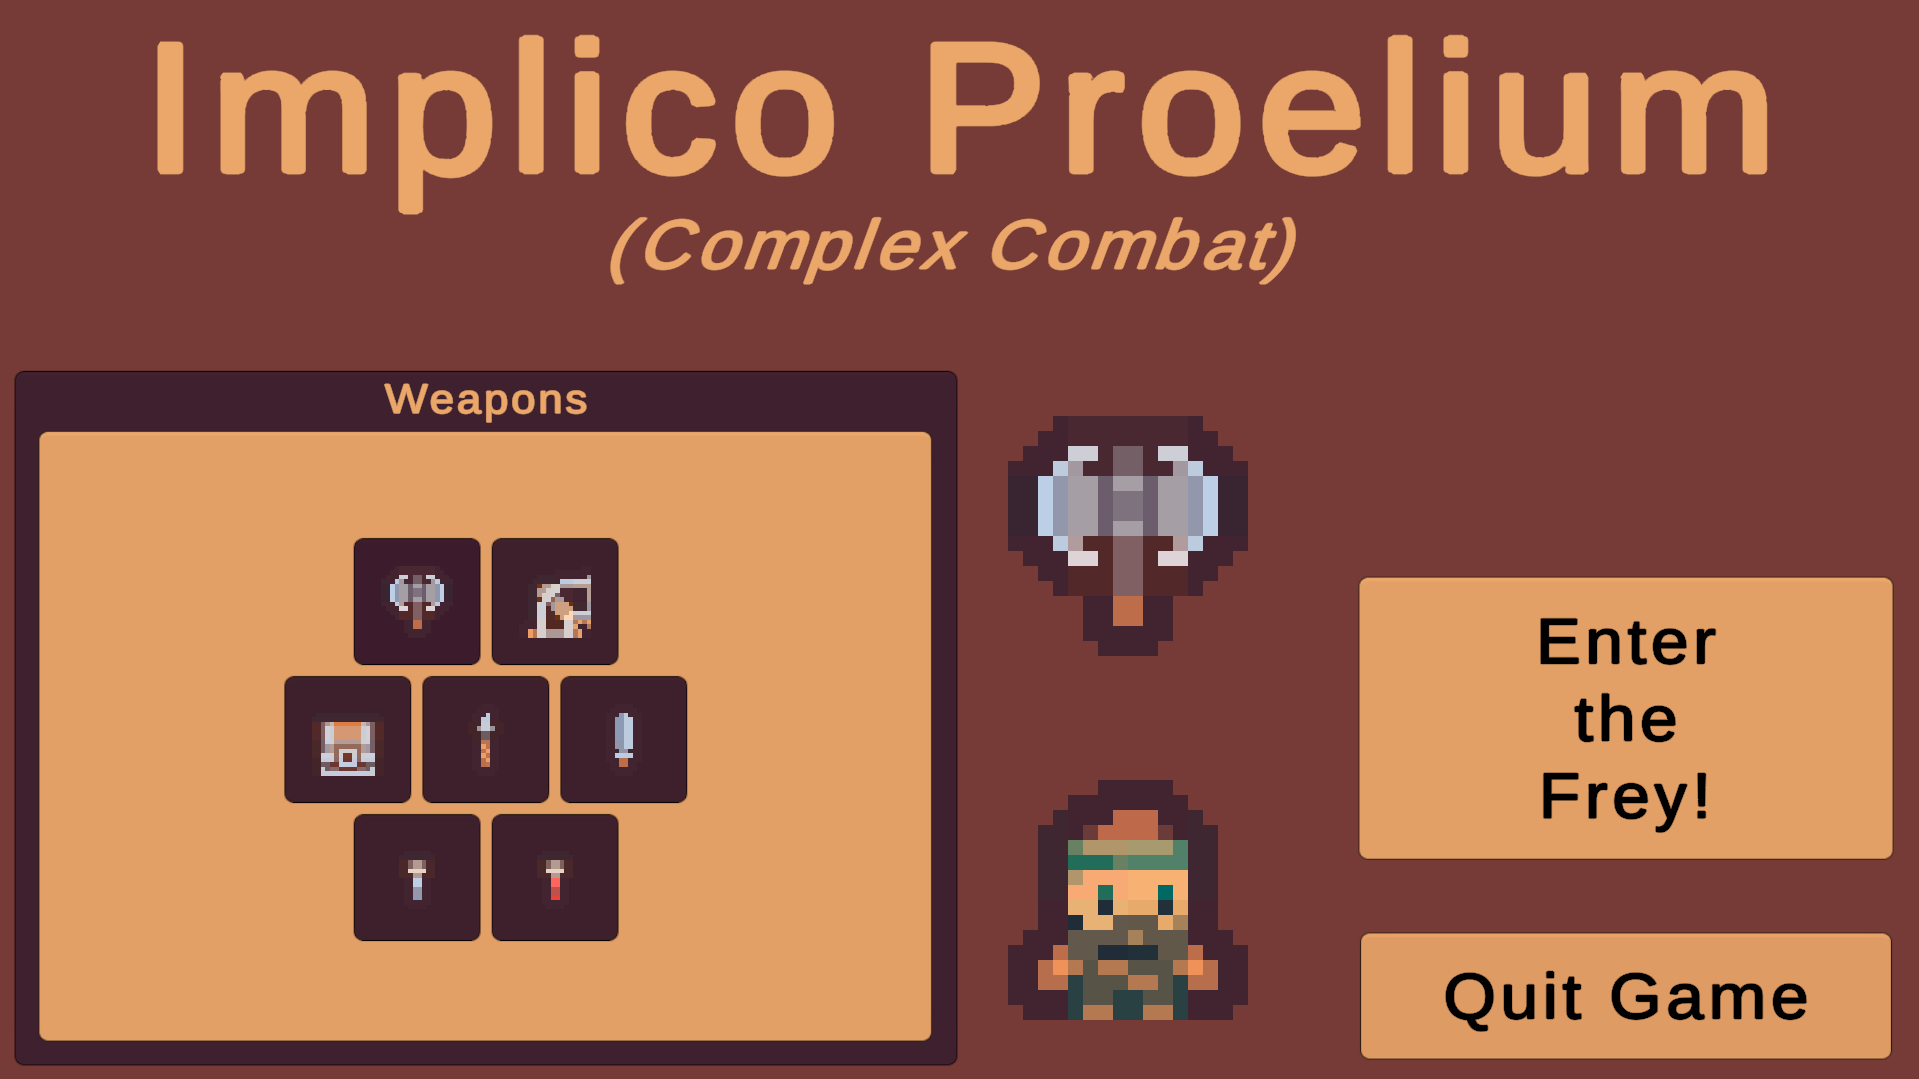
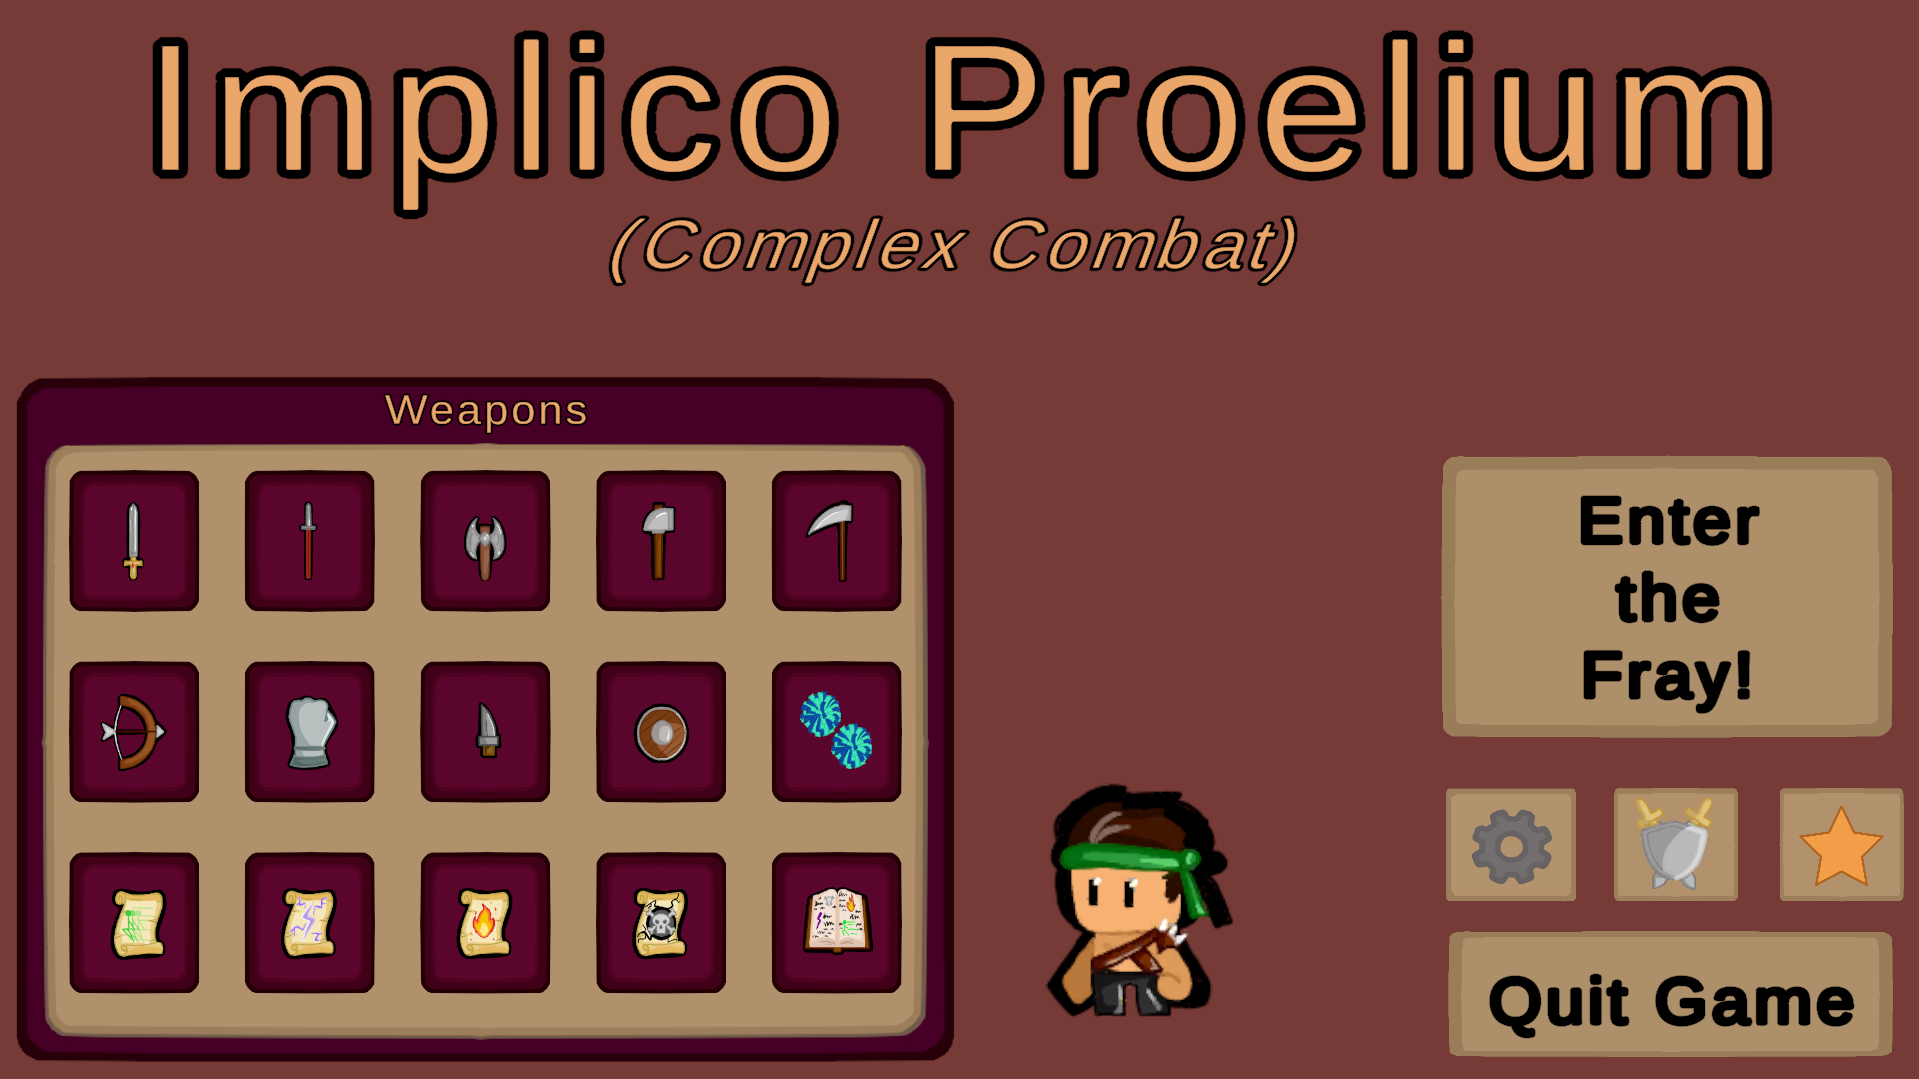
Implico Proelium [Beta]

diff --git a/implico_proelium_page.md b/implico_proelium_page.md
@@ -1,13 +1,13 @@
 ## IMPLICO PROELIUM
 ### DEMO - Linköping Indie Games Expo
 <img src="images/IP_2.png?raw=true"/>
-IMPLICO PROELIUM is an upcoming tactical score chaser and turn based puzzle arena where you fight through increasing waves of opponents to impress the colosseum's audience.<br>
+Implico Proelium is a puzzleing turn based score attack game where you, as a gladiator, fight against ever increasing waves of opponents to the impressed cheers of the colosseum's judges and audience.<br>
 The more efficient you are with your moves, the more weapon options you'll be offered by the judges as a reward, and these weapons will help you survive the onslaught!
 <br>
 <img src="images/IP_1.png?raw=true"/>
 <br>
-This demo was built by myself alone to pratice programming and UI-design. It took about two weeks of total work.<br>
-The full version is currently being worked on, and will be uploaded here in a month or two. Stay tuned for the new years! :)
+Implico Proelium was built in two parts:<br>
+First, I developed a fully functional demo and prototype by myself over about two weeks of work. One week to pratice programming and another to practice UI-design. <br>
+Second, I worked together with a single artist to develop the current version over about five weeks. I was the sole programmer and responsible for all desicions regarding game's design.<br>
 
-[Click Here to Download the Demo](https://drive.google.com/file/d/1lce3fkvIp0q1-tCJi-WSQBkqm74sDrUy/view?usp=sharing)<br>
-Assets were fetched from [Kenney.nl](https://www.kenney.nl/)
+[Click Here to Download the Game](https://drive.google.com/file/d/1Z9oeFaXli8mzh_VKcStjMZLlESPXGq78/view?usp=drive_link)<br>

diff --git a/down_page.md b/down_page.md
@@ -6,7 +6,8 @@ On their way towards the top of the tower in this charming first game project, t
 <img src="images/DOWN_2.png?raw=true"/>
 <img src="images/DOWN_3.png?raw=true"/>
 <br>
-DOWN is a the result of a game project course where students from different areas of study at the University of Skövde collaborate. In this project I worked as one of two programmers, responsible for all of the programming aspects of the project.
+DOWN is a the result of a game project course where students from different areas of study at the University of Skövde collaborate.<br>
+In this project I worked as one of two programmers, responsible for all of the programming aspects of the project.
 
 [Click Here to Watch the Trailer](https://drive.google.com/file/d/1zki7kvMJ9mQfKTBASoiMq_2EsmbdPe-I/view?usp=sharing)<br>
 [Click Here to Download the Game](https://drive.google.com/file/d/1V7ngUk-L0xeTcyrCg0qIF14bSrtISk1i/view?usp=sharing)<br>
